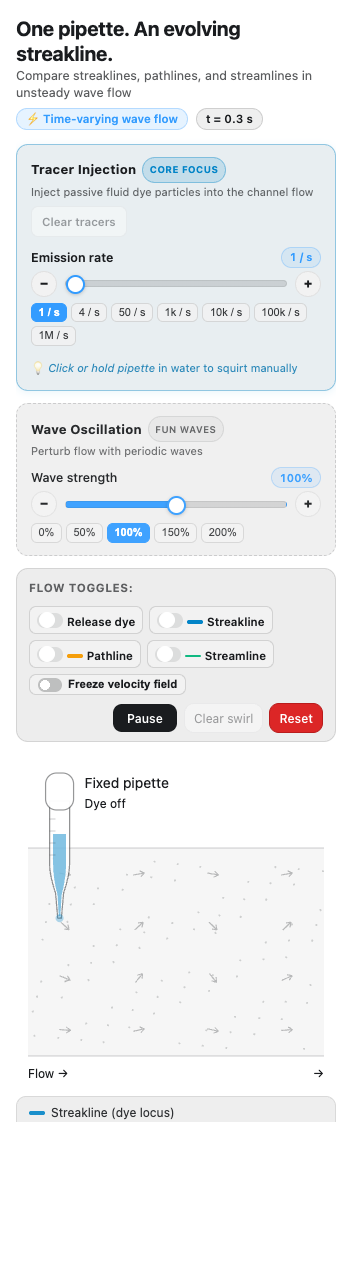
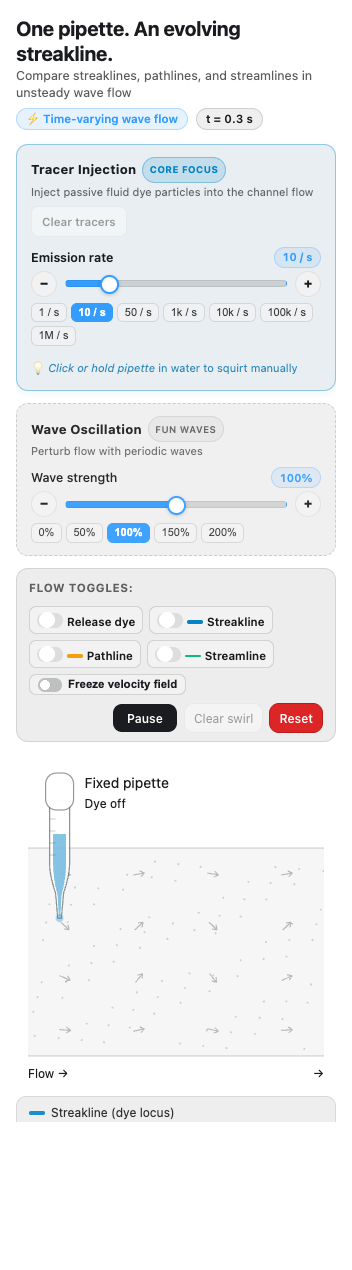
Set default tracer emission rate to 10/s and replace 4/s preset with 10/s chip

Changed region(s): [[0.0938, 0.215, 0.3438, 0.2764], [0.7812, 0.1843, 0.8438, 0.215]]

diff --git a/dist/index.html b/dist/index.html
@@ -1354,19 +1354,19 @@ html&gt;body{padding:0}&lt;/style&gt;
       &lt;label class=&quot;form-label&quot; for=&quot;sl-rate&quot;&gt;
         &lt;div class=&quot;sl-label-row&quot;&gt;
           &lt;span class=&quot;sl-rate-label-text&quot;&gt;Emission rate&lt;/span&gt;
-          &lt;span class=&quot;text-small tabular-nums sl-badge sl-badge-primary&quot; id=&quot;sl-rate-val&quot;&gt;1 / s&lt;/span&gt;
+          &lt;span class=&quot;text-small tabular-nums sl-badge sl-badge-primary&quot; id=&quot;sl-rate-val&quot;&gt;10 / s&lt;/span&gt;
         &lt;/div&gt;
         &lt;div class=&quot;sl-slider-container&quot;&gt;
           &lt;div class=&quot;sl-slider-row&quot;&gt;
             &lt;button type=&quot;button&quot; class=&quot;sl-step-btn&quot; data-step-for=&quot;sl-rate&quot; data-dir=&quot;-1&quot; aria-label=&quot;Decrease tracer rate&quot;&gt;−&lt;/button&gt;
             &lt;div class=&quot;sl-slider-wrapper&quot;&gt;
-              &lt;input class=&quot;form-range&quot; type=&quot;range&quot; id=&quot;sl-rate&quot; min=&quot;0&quot; max=&quot;1000&quot; step=&quot;1&quot; value=&quot;0&quot; data-min=&quot;1&quot; data-max=&quot;1000000&quot; data-rate=&quot;1&quot;&gt;
+              &lt;input class=&quot;form-range&quot; type=&quot;range&quot; id=&quot;sl-rate&quot; min=&quot;0&quot; max=&quot;1000&quot; step=&quot;1&quot; value=&quot;167&quot; data-min=&quot;1&quot; data-max=&quot;1000000&quot; data-rate=&quot;10&quot; style=&quot;--sl-pct: 16.7%;&quot;&gt;
             &lt;/div&gt;
             &lt;button type=&quot;button&quot; class=&quot;sl-step-btn&quot; data-step-for=&quot;sl-rate&quot; data-dir=&quot;1&quot; aria-label=&quot;Increase tracer rate&quot;&gt;+&lt;/button&gt;
           &lt;/div&gt;
           &lt;div class=&quot;sl-presets&quot;&gt;
-            &lt;button type=&quot;button&quot; class=&quot;sl-chip is-active&quot; data-for=&quot;sl-rate&quot; data-val=&quot;1&quot;&gt;1 / s&lt;/button&gt;
-            &lt;button type=&quot;button&quot; class=&quot;sl-chip&quot; data-for=&quot;sl-rate&quot; data-val=&quot;4&quot;&gt;4 / s&lt;/button&gt;
+            &lt;button type=&quot;button&quot; class=&quot;sl-chip&quot; data-for=&quot;sl-rate&quot; data-val=&quot;1&quot;&gt;1 / s&lt;/button&gt;
+            &lt;button type=&quot;button&quot; class=&quot;sl-chip is-active&quot; data-for=&quot;sl-rate&quot; data-val=&quot;10&quot;&gt;10 / s&lt;/button&gt;
             &lt;button type=&quot;button&quot; class=&quot;sl-chip&quot; data-for=&quot;sl-rate&quot; data-val=&quot;50&quot;&gt;50 / s&lt;/button&gt;
             &lt;button type=&quot;button&quot; class=&quot;sl-chip&quot; data-for=&quot;sl-rate&quot; data-val=&quot;1000&quot;&gt;1k / s&lt;/button&gt;
             &lt;button type=&quot;button&quot; class=&quot;sl-chip&quot; data-for=&quot;sl-rate&quot; data-val=&quot;10000&quot;&gt;10k / s&lt;/button&gt;
@@ -2219,7 +2219,7 @@ html&gt;body{padding:0}&lt;/style&gt;
   const pipette = el(&#x27;sl-pipette&#x27;);
   let isPipetteHeld = false;
   const reducedMotion = window.matchMedia(&#x27;(prefers-reduced-motion: reduce)&#x27;);
-  const state = { frozenField: false, paused: reducedMotion.matches, injecting: false, rate: 1, line: false, pathline: false, streamline: false, waveStrength: 1 };
+  const state = { frozenField: false, paused: reducedMotion.matches, injecting: false, rate: 10, line: false, pathline: false, streamline: false, waveStrength: 1 };
   let frozenTime = 0;
   const vortex = { active: false, x: 6, y: 2, gamma: 1.2 };
   const L = 12, H = 4, U = 0.65, B = 0.50, K = 0.82, OMEGA = 0.58;
@@ -2739,7 +2739,7 @@ html&gt;body{padding:0}&lt;/style&gt;
     state.line = false;
     state.pathline = false;
     state.streamline = false;
-    state.rate = 1;
+    state.rate = 10;
     state.waveStrength = 1;
     vortex.active = false;
     isPipetteHeld = false;
@@ -2803,6 +2803,7 @@ html&gt;body{padding:0}&lt;/style&gt;
   layout(); requestAnimationFrame(animate);
 })();
 &lt;/script&gt;
+
 
 
 

diff --git a/outputs/streakline-demo.html b/outputs/streakline-demo.html
@@ -1354,19 +1354,19 @@ html&gt;body{padding:0}&lt;/style&gt;
       &lt;label class=&quot;form-label&quot; for=&quot;sl-rate&quot;&gt;
         &lt;div class=&quot;sl-label-row&quot;&gt;
           &lt;span class=&quot;sl-rate-label-text&quot;&gt;Emission rate&lt;/span&gt;
-          &lt;span class=&quot;text-small tabular-nums sl-badge sl-badge-primary&quot; id=&quot;sl-rate-val&quot;&gt;1 / s&lt;/span&gt;
+          &lt;span class=&quot;text-small tabular-nums sl-badge sl-badge-primary&quot; id=&quot;sl-rate-val&quot;&gt;10 / s&lt;/span&gt;
         &lt;/div&gt;
         &lt;div class=&quot;sl-slider-container&quot;&gt;
           &lt;div class=&quot;sl-slider-row&quot;&gt;
             &lt;button type=&quot;button&quot; class=&quot;sl-step-btn&quot; data-step-for=&quot;sl-rate&quot; data-dir=&quot;-1&quot; aria-label=&quot;Decrease tracer rate&quot;&gt;−&lt;/button&gt;
             &lt;div class=&quot;sl-slider-wrapper&quot;&gt;
-              &lt;input class=&quot;form-range&quot; type=&quot;range&quot; id=&quot;sl-rate&quot; min=&quot;0&quot; max=&quot;1000&quot; step=&quot;1&quot; value=&quot;0&quot; data-min=&quot;1&quot; data-max=&quot;1000000&quot; data-rate=&quot;1&quot;&gt;
+              &lt;input class=&quot;form-range&quot; type=&quot;range&quot; id=&quot;sl-rate&quot; min=&quot;0&quot; max=&quot;1000&quot; step=&quot;1&quot; value=&quot;167&quot; data-min=&quot;1&quot; data-max=&quot;1000000&quot; data-rate=&quot;10&quot; style=&quot;--sl-pct: 16.7%;&quot;&gt;
             &lt;/div&gt;
             &lt;button type=&quot;button&quot; class=&quot;sl-step-btn&quot; data-step-for=&quot;sl-rate&quot; data-dir=&quot;1&quot; aria-label=&quot;Increase tracer rate&quot;&gt;+&lt;/button&gt;
           &lt;/div&gt;
           &lt;div class=&quot;sl-presets&quot;&gt;
-            &lt;button type=&quot;button&quot; class=&quot;sl-chip is-active&quot; data-for=&quot;sl-rate&quot; data-val=&quot;1&quot;&gt;1 / s&lt;/button&gt;
-            &lt;button type=&quot;button&quot; class=&quot;sl-chip&quot; data-for=&quot;sl-rate&quot; data-val=&quot;4&quot;&gt;4 / s&lt;/button&gt;
+            &lt;button type=&quot;button&quot; class=&quot;sl-chip&quot; data-for=&quot;sl-rate&quot; data-val=&quot;1&quot;&gt;1 / s&lt;/button&gt;
+            &lt;button type=&quot;button&quot; class=&quot;sl-chip is-active&quot; data-for=&quot;sl-rate&quot; data-val=&quot;10&quot;&gt;10 / s&lt;/button&gt;
             &lt;button type=&quot;button&quot; class=&quot;sl-chip&quot; data-for=&quot;sl-rate&quot; data-val=&quot;50&quot;&gt;50 / s&lt;/button&gt;
             &lt;button type=&quot;button&quot; class=&quot;sl-chip&quot; data-for=&quot;sl-rate&quot; data-val=&quot;1000&quot;&gt;1k / s&lt;/button&gt;
             &lt;button type=&quot;button&quot; class=&quot;sl-chip&quot; data-for=&quot;sl-rate&quot; data-val=&quot;10000&quot;&gt;10k / s&lt;/button&gt;
@@ -2219,7 +2219,7 @@ html&gt;body{padding:0}&lt;/style&gt;
   const pipette = el(&#x27;sl-pipette&#x27;);
   let isPipetteHeld = false;
   const reducedMotion = window.matchMedia(&#x27;(prefers-reduced-motion: reduce)&#x27;);
-  const state = { frozenField: false, paused: reducedMotion.matches, injecting: false, rate: 1, line: false, pathline: false, streamline: false, waveStrength: 1 };
+  const state = { frozenField: false, paused: reducedMotion.matches, injecting: false, rate: 10, line: false, pathline: false, streamline: false, waveStrength: 1 };
   let frozenTime = 0;
   const vortex = { active: false, x: 6, y: 2, gamma: 1.2 };
   const L = 12, H = 4, U = 0.65, B = 0.50, K = 0.82, OMEGA = 0.58;
@@ -2739,7 +2739,7 @@ html&gt;body{padding:0}&lt;/style&gt;
     state.line = false;
     state.pathline = false;
     state.streamline = false;
-    state.rate = 1;
+    state.rate = 10;
     state.waveStrength = 1;
     vortex.active = false;
     isPipetteHeld = false;
@@ -2803,6 +2803,7 @@ html&gt;body{padding:0}&lt;/style&gt;
   layout(); requestAnimationFrame(animate);
 })();
 &lt;/script&gt;
+
 
 
 

diff --git a/work/streakline-preview.html b/work/streakline-preview.html
@@ -1354,19 +1354,19 @@ html&gt;body{padding:0}&lt;/style&gt;
       &lt;label class=&quot;form-label&quot; for=&quot;sl-rate&quot;&gt;
         &lt;div class=&quot;sl-label-row&quot;&gt;
           &lt;span class=&quot;sl-rate-label-text&quot;&gt;Emission rate&lt;/span&gt;
-          &lt;span class=&quot;text-small tabular-nums sl-badge sl-badge-primary&quot; id=&quot;sl-rate-val&quot;&gt;1 / s&lt;/span&gt;
+          &lt;span class=&quot;text-small tabular-nums sl-badge sl-badge-primary&quot; id=&quot;sl-rate-val&quot;&gt;10 / s&lt;/span&gt;
         &lt;/div&gt;
         &lt;div class=&quot;sl-slider-container&quot;&gt;
           &lt;div class=&quot;sl-slider-row&quot;&gt;
             &lt;button type=&quot;button&quot; class=&quot;sl-step-btn&quot; data-step-for=&quot;sl-rate&quot; data-dir=&quot;-1&quot; aria-label=&quot;Decrease tracer rate&quot;&gt;−&lt;/button&gt;
             &lt;div class=&quot;sl-slider-wrapper&quot;&gt;
-              &lt;input class=&quot;form-range&quot; type=&quot;range&quot; id=&quot;sl-rate&quot; min=&quot;0&quot; max=&quot;1000&quot; step=&quot;1&quot; value=&quot;0&quot; data-min=&quot;1&quot; data-max=&quot;1000000&quot; data-rate=&quot;1&quot;&gt;
+              &lt;input class=&quot;form-range&quot; type=&quot;range&quot; id=&quot;sl-rate&quot; min=&quot;0&quot; max=&quot;1000&quot; step=&quot;1&quot; value=&quot;167&quot; data-min=&quot;1&quot; data-max=&quot;1000000&quot; data-rate=&quot;10&quot; style=&quot;--sl-pct: 16.7%;&quot;&gt;
             &lt;/div&gt;
             &lt;button type=&quot;button&quot; class=&quot;sl-step-btn&quot; data-step-for=&quot;sl-rate&quot; data-dir=&quot;1&quot; aria-label=&quot;Increase tracer rate&quot;&gt;+&lt;/button&gt;
           &lt;/div&gt;
           &lt;div class=&quot;sl-presets&quot;&gt;
-            &lt;button type=&quot;button&quot; class=&quot;sl-chip is-active&quot; data-for=&quot;sl-rate&quot; data-val=&quot;1&quot;&gt;1 / s&lt;/button&gt;
-            &lt;button type=&quot;button&quot; class=&quot;sl-chip&quot; data-for=&quot;sl-rate&quot; data-val=&quot;4&quot;&gt;4 / s&lt;/button&gt;
+            &lt;button type=&quot;button&quot; class=&quot;sl-chip&quot; data-for=&quot;sl-rate&quot; data-val=&quot;1&quot;&gt;1 / s&lt;/button&gt;
+            &lt;button type=&quot;button&quot; class=&quot;sl-chip is-active&quot; data-for=&quot;sl-rate&quot; data-val=&quot;10&quot;&gt;10 / s&lt;/button&gt;
             &lt;button type=&quot;button&quot; class=&quot;sl-chip&quot; data-for=&quot;sl-rate&quot; data-val=&quot;50&quot;&gt;50 / s&lt;/button&gt;
             &lt;button type=&quot;button&quot; class=&quot;sl-chip&quot; data-for=&quot;sl-rate&quot; data-val=&quot;1000&quot;&gt;1k / s&lt;/button&gt;
             &lt;button type=&quot;button&quot; class=&quot;sl-chip&quot; data-for=&quot;sl-rate&quot; data-val=&quot;10000&quot;&gt;10k / s&lt;/button&gt;
@@ -2219,7 +2219,7 @@ html&gt;body{padding:0}&lt;/style&gt;
   const pipette = el(&#x27;sl-pipette&#x27;);
   let isPipetteHeld = false;
   const reducedMotion = window.matchMedia(&#x27;(prefers-reduced-motion: reduce)&#x27;);
-  const state = { frozenField: false, paused: reducedMotion.matches, injecting: false, rate: 1, line: false, pathline: false, streamline: false, waveStrength: 1 };
+  const state = { frozenField: false, paused: reducedMotion.matches, injecting: false, rate: 10, line: false, pathline: false, streamline: false, waveStrength: 1 };
   let frozenTime = 0;
   const vortex = { active: false, x: 6, y: 2, gamma: 1.2 };
   const L = 12, H = 4, U = 0.65, B = 0.50, K = 0.82, OMEGA = 0.58;
@@ -2739,7 +2739,7 @@ html&gt;body{padding:0}&lt;/style&gt;
     state.line = false;
     state.pathline = false;
     state.streamline = false;
-    state.rate = 1;
+    state.rate = 10;
     state.waveStrength = 1;
     vortex.active = false;
     isPipetteHeld = false;
@@ -2803,6 +2803,7 @@ html&gt;body{padding:0}&lt;/style&gt;
   layout(); requestAnimationFrame(animate);
 })();
 &lt;/script&gt;
+
 
 
 
